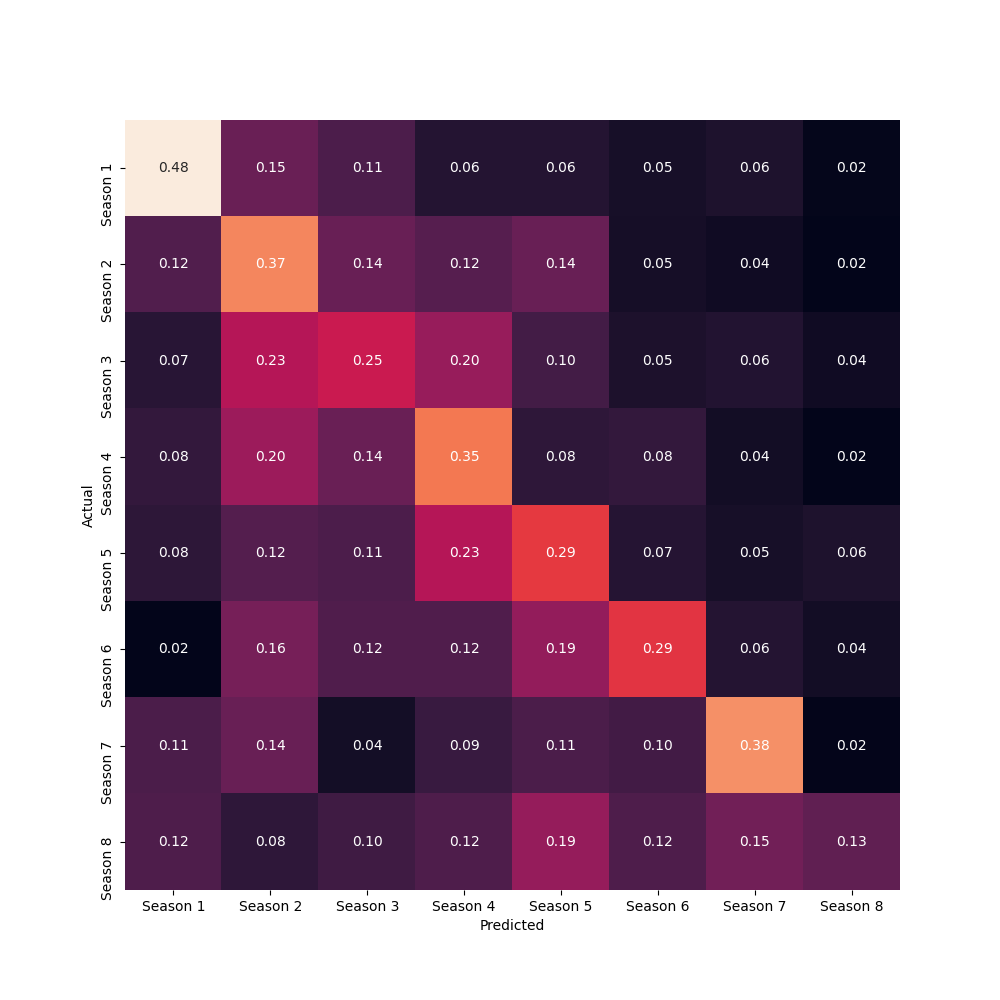
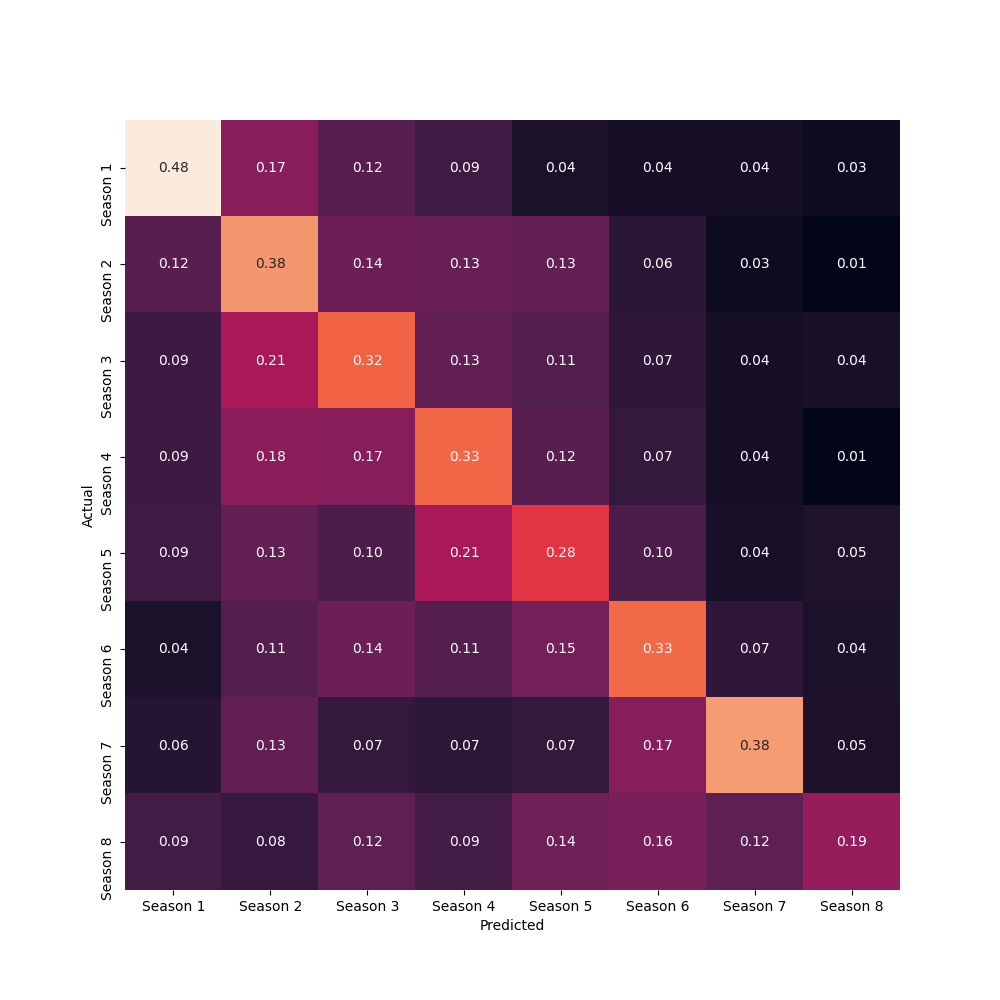
remove trainable

diff --git a/src/2_cnn_classifier.py b/src/2_cnn_classifier.py
@@ -4,17 +4,13 @@
 CNN classification of preprocessed GoT data, which has sentences chunked into 10 sentences, 
 using pretrained GloVe embeddings, which can be used as pretrained, or be re-trained on the data
 
-Required input:
-  - -o, --output_name: str, name of output directory to save all model outputs in
-
 Optional input:
   - -i, --input_file: str, default: "../out/0_preprocessing/GoT_preprocessed_10.csv", input csv with "season" and "text"
   - -e, --epochs: int, default: 20, number of epochs to train the model
   - -b, --batch_size: int, default: 20, size of batches to train model on 
   - -ed, --embedding_dim: int, default: 100, embedding dimension, either 50,100,200,300
-  - -et, --embedding_trainable, default: False, just use -et to make it True, whether pretrained embedding should be re-trained
 
-Output saved in out/2_cnn_classifier/{output_name}:
+Output saved in out/2_cnn_classifier/:
 - cnn_summary.txt: model summary of cnn model
 - cnn_model.png: visualisation of the model architecture
 - cnn_history.png: history plot of the cnn model
@@ -28,6 +24,9 @@ Output saved in out/2_cnn_classifier/{output_name}:
 import os
 import argparse
 import pandas as pd
+import numpy as np
+import seaborn as sns
+import matplotlib.pyplot as plt
 
 # Utils
 import sys
@@ -36,9 +35,8 @@ from utils.clf_utils import (get_train_test, binarize_labels, create_embedding_m
                              tokenize_texts, pad_texts, int_to_labels, classification_matrix,
                              save_model_info, save_model_history, save_model_report, save_model_matrix)
 
-import numpy as np
-import seaborn as sns
-import matplotlib.pyplot as plt
+
+# ML tools
 from sklearn.preprocessing import LabelBinarizer
 from sklearn.metrics import classification_report
 
@@ -60,13 +58,6 @@ def main():
     # Initialise argument parser
     ap = argparse.ArgumentParser()
     
-    
-    # Required inputs
-    # Input option for output directory name
-    ap.add_argument("-o", "--out_name", type=str, help="Number of output directoy, will be created in out/",
-                    required=True)
-    
-    # Optional inputs
     # Input option for number of epochs
     ap.add_argument("-i", "--input_file", type=str, help="Path to input data file, csv with columns 'season' and 'text'", 
                     required=False, default="../out/0_preprocessing/GoT_preprocessed_10.csv")
@@ -82,10 +73,6 @@ def main():
     # Input option for embedding dimensions
     ap.add_argument("-ed", "--embedding_dim", type=int, help="Size of embedding dimension",
                      required=False, default=100)
-    
-    # Input option for whether embedding weights should be trainable
-    ap.add_argument("-et", "--embedding_trainable", action='store_true', help="Should embedding be trainable",
-                    required=False, default=False)
 
     # Retrieve input arguments
     args = vars(ap.parse_args())
@@ -93,8 +80,6 @@ def main():
     epochs = args["epochs"]
     batch_size = args["batch_size"]
     embedding_dim = args["embedding_dim"]
-    embeddings_trainable = args["embeddings_trainable"]
-    out_name = args["out_name"]
     
     # --- PREPARE DATA ---
     
@@ -128,7 +113,7 @@ def main():
     
     # Add embedding layer
     model.add(Embedding(vocab_size, embedding_dim, weights=[embedding_matrix], 
-                        input_length=max_len, trainable=embeddings_trainable))
+                        input_length=max_len, trainable=True))
     
     # Add convolutional layer
     model.add(Conv1D(128, 5, activation='relu', kernel_regularizer=L2(0.001)))
@@ -160,8 +145,9 @@ def main():
                                    predictions.argmax(axis=1),
                                    target_names = label_names)
                               
-    # Get classification matrix
-    labels_true, labels_pred = int_to_labels(y_test_binary, predictions, label_names)     
+    # Turn binarised labels into true labels
+    labels_true, labels_pred = int_to_labels(y_test_binary, predictions, label_names)  
+    # Get classifiction matrix
     matrix = classification_matrix(labels_true, labels_pred)
     
     # --- OUTPUT ---
@@ -171,7 +157,7 @@ def main():
     print(report)
     
     # Prepare output directory
-    out_directory = os.path.join("..", "out", "2_cnn_classifier", out_name)
+    out_directory = os.path.join("..", "out", "2_cnn_classifier")
     if not os.path.exists(out_directory):
         os.makedirs(out_directory)
     

diff --git a/src/1_lr_classifier.py b/src/1_lr_classifier.py
@@ -77,7 +77,7 @@ def main():
     y = df["season"].values
     
     # Split into test and train data
-    X_train, X_test, y_train, y_test = train_test_split(X, y, test_size=0.20, random_state=42)
+    X_train, X_test, y_train, y_test = train_test_split(X, y, test_size=0.25, random_state=42)
     
     # Extract count features 
     vectorizer = CountVectorizer()

diff --git a/utils/clf_utils.py b/utils/clf_utils.py
@@ -317,4 +317,5 @@ def save_model_matrix(matrix, output_directory, filename):
     out_matrix = unique_path(os.path.join(output_directory, filename))
     matrix.savefig(out_matrix)
     
-    
+if __name__=="__main__":
+    pass  

diff --git a/README.md b/README.md
@@ -2,42 +2,24 @@
 
 [Description](#description) | [Methods](#methods) | [Repository Structure](#repository-structure) | [Usage](#usage) | [Results and Disucssion](#results-and-discussion) | [Contact](#contact)
 
-
 ## Description
 > This is related to Assignment 6: Text Classification using Deep Learning of the course Language Analytics. 
 
-The meaning of text is not only defined by occurance of individual words (which could be captured through e.g. count-vectorization or tfidf-vectorization), and sparse one-hot encoded vectors, but also through the actual meaning of words and the context that those individual words occur in. 
-
-**Word embeddings** are dense feature representations of words, where semantically similar words have similar representations. These word embeddings are learned from a corpus of text documents, based on around which other words they occur. Thus, if two words occur always together with other words, they will have similar representations. Rather than training these representations from scratch, pre-trained word embeddings can be used, which have been extracted from a large corpus of text. In this project, GloVe embeddings are used, which were trained using Wikipedia 2014 + Gigaword 5 (more info [here](https://nlp.stanford.edu/projects/glove/)). 
-
-**Convolutional Neural Networks** have the advantage over e.g. traditional machine learning models, that they can not only take into account global features across a text, but also local features, i.e. smaller contexts. As a first layer, CNNs can take an embedding layer. If no pre-trained embeddings are used, this layer will learn to word embeddings using the input data. However, if pre-trained embeddings are used, the words of the text can be transformed into these pre-trained embeddings and fed into the model. Additionally, one can also update or re-train the pretrained embeddings based on the text inut. 
-
-This project aimed to investigate whether lines of Games of Thrones can be classified by the season they belong to. Thus, this repository contains two scripts, (1) to train and evaluate a base line model, using count-vectorisation and a logistic regression classifier and (2) to train and evalute a CNN, using pre-trained GloVe embeddings. 
-
+This project aimed to investigate whether lines of Games of Thrones can be classified by the season they belong to. For this classification task two models were trained and evaluated: (1) a baseline model using count-vectorisation and a logistic regression classifier and (2) a deep learning model using pre-trained GloVe word embeddings and a convolutional neural network classifier. While features extracted using count-vectorisation can inform about the words that occur in a given text, they cannot capture anything about the actual meaning of those words and the context that they appear in. Word embeddings are dense feature representations of words, which are learned based on which other words occur around a given word. For instance, if the words house and apartment always occur around words such as live and leave, these words will have similar representations. Consequently, words which are semantically similar will have similar representations. Rather than training these representations from scratch, pre-trained word embeddings, which have been learned using a large corpus of text can be used. These word embeddings can be fed into convolutional neural networks (CNN), which are able to take into account local features, i.e. smaller contexts of text.  
 
 ## Methods 
 
 ### Data and Preprocessing 
-The data, which was used for this project contains lines of Games of Thrones and information about the season they belong to. The data was extracted from [Kaggle](https://www.kaggle.com/albenft/game-of-thrones-script-all-seasons) and preprocessed with the following steps, aiming to create more balanced text document, e.g. of similar length:
-1. Remove rows in which the `Sentence` was not a sentence, but `SEASON` or `EPISODE` or `CREDITS` 
-2. The `Sentence` column still contained multiple sentences, i.e. when one of the characters was talking for a longer time. All sentences were split into single sentences. 
-3. The single sentences were chuncked in chunks of 10 sentences and stored together with the season information in a dataframe with columns `season` and `text`
+For this project, data from [Kaggle](https://www.kaggle.com/albenft/game-of-thrones-script-all-seasons), containing lines of Games of Thrones and the season they belong to. As the lines varied in their length, the following steps were taken with the aim of cleaning the data and creating more balanced text documents: 
+1. Rows in which the text was not a true line, but contained the word SEASON,  EPISODE or CREDITS were removed. 
+2. The lines in the data frame still consisted of multiple sentences. Thus, all lines were split into single sentences, while keeping the information about the season. 
+4. The single sentences were chunked into chunks of 10 sentences and stored together with their season in a data frame with columns for season and text.
 
 ### Count Vectorisazion and Logistic Regression
-As a baseline model, features were extracted from each of the texts using count vectorisation. This means, that that words in the texts are stored in a dictionary, and each text is then represented as how often each word of the dictionary occurs in the text. The logistic regression classifier used these extracted feature spaces to classify the text. For this project it was run with L2 regularisation, and a max of 1000 iterations. 
+For the baseline model, the preprocessed data was first split into training and test data using an 75/25 split. Subsequently, features were extracted from the data using count vectorisation. This means, words in the texts are stored in a dictionary, and each text is represented by how often each word of the dictionary occurs in the text. These feature representations were fed into a logistic regression classifier, which was run using default parameters. The model was evaluated based on predictions on the test data. 
 
 ### Image Embeddings and Convolutional Neural Networks
-The CNN had the following layer structure: 
-
-- Embedding Layer: embedding matrix of GloVe embeddings, using embedding dimension of 100
-- Convolutional layer with 128 nodes, relu activation and L2 regularisation of 0.001
-- Global max-pooling layer 
-- Drop out ayer of 0.02
-- Fully connected layer with 32 nodes, relu activation and L2 regularisation of 0.001
-- Drop out layer of 0.02
-- Output, classification layer
-
-The drop out layers and regularisation methods were used, to reduce overfitting of the model on the training data. For more details see also the [model visualisation](https://github.com/nicole-dwenger/cdslanguage-cnn/blob/master/out/2_cnn_classifier/pretrained_100_e20/cnn_model.png) and [model summary](https://github.com/nicole-dwenger/cdslanguage-cnn/blob/master/out/2_cnn_classifier/pretrained_100_e20/cnn_summary.txt). The model was once trained using the pre-trained word embeddings, and once allowing the pre-trained word embeddings to be updated with the input data (i.e. trainble). In both cases, the model was trained for 20 epochs using a batch size of 20. 
+For the deep learning model, the preprocessed data was also split into training and test data using an 75/25 split. First, the labels were binarised to be fed into the CNN. Afterwards, the texts were tokenised, meaning they were turned into a vectors. To be fed into the CNN, it is required that all vectors have the same length. Thus, the vectors were padded to be as long as the maximum vector. These vectors were then used to create an embedding matrix, based on the pre-trained GloVe embeddings of dimension 100. This embedding matrix the input of the first layer, the embedding layer of the CNN. Even though the pre-trained GloVe embedding were used, they were allowed to be re-trained  based on the input data (set to trainable). Following this embedding layer was a convolutional layer (128 nodes, with relu-activation function, L2 regularisation of 0.001), a global max-pooling layer, a drop out layer (0.02), a fully connected layer (32 nodes, with relu-activation function, L2 regularisation of 0.001), another drop-out layer (0.02) and finally a layer to classify the line to be one of the eight seasons. The drop-out layers and regularisation method were used to reduce overfitting of the model on the training data. For more details see the [model visualisation](https://github.com/nicole-dwenger/cdslanguage-cnn/blob/master/out/2_cnn_classifier/pretrained_100_e20/cnn_model.png) and [model summary](https://github.com/nicole-dwenger/cdslanguage-cnn/blob/master/out/2_cnn_classifier/pretrained_100_e20/cnn_summary.txt). The model was trained for 20 epochs using a batch size of 20.
 
 ## Repository Structure 
 ```
@@ -49,17 +31,14 @@ The drop out layers and regularisation methods were used, to reduce overfitting 
     |-- 0_preprocessing/                # Directory for output of script 0_preprocessing.py
         |-- GoT_preprocessed_10.csv     # Preprocessed data, with chunks of 10 sentences
     |-- 1_lr_classifier/                # Directory for output of script 1_lr_classifier.py
-        |-- lr_metrics.txt              
-        |-- lr_matrix.png               
+        |-- lr_metrics.txt              # Classification report of logistic regression classifier
+        |-- lr_matrix.png               # Classification matrix of logistic regression classifier
     |-- 2_cnn_classifier/               # Directory for output of script 2_cnn_classifier.py
-        |-- pretrained_100_e20/         # Directory for output of CNN with pretrained embeddings of size 100
-            |-- cnn_summary.txt
-            |-- cnn_model.png
-            |-- cnn_history.png
-            |-- cnn_metrics.txt
-            |-- cnn_matrix.png
-        |-- trained_100_e20/            # Directory for output of CNN with re-trained embedddings of 100
-            |-- ...
+        |-- cnn_summary.txt             # Summary of CNN architecture
+        |-- cnn_model.png               # Visualisation of CNN architecture
+        |-- cnn_history.png             # Visualisation of CNN training history
+        |-- cnn_metrics.txt             # Classification report of CNN
+        |-- cnn_matrix.png              # Classification matrix of CNN
 
 |-- src/                                # Directory containing main scripts of the project
     |-- 0_preprocessing.py              # Script for preprocessing raw data
@@ -94,7 +73,7 @@ source venv_cnn/bin/activate
 ```
 
 ### 2. Data and Pretrained Embeddings
-The Games of Thrones Data, which was downloaded from [Kaggle](https://www.kaggle.com/albenft/game-of-thrones-script-all-seasons) is already in the repository, in the `data/` directory. However, to run the CNN, it is necessary to download the pretrained GloVe word embeddings. This should be done in the `data/glove/` directory (which is already prepared, but empty). After following the steps below, you should have 4 .txt files in the glove directory: 
+The Games of Thrones Data, which was downloaded from [Kaggle](https://www.kaggle.com/albenft/game-of-thrones-script-all-seasons) is already in the repository, in the `data/` directory. However, to run the CNN, it is necessary to download the pretrained GloVe word embeddings. This should be done in the `data/glove/` directory (which is already prepared, but empty). After following the steps below, you should have four .txt files in the glove directory: 
 
 ```bash
 # move into glove directory
@@ -157,10 +136,10 @@ __Parameters:__
 __Output__ saved in `out/1_lr_classifier/`: 
 
 - `lr_metrics.txt`\
-   Classification report of logistic regression classifier. Filename is enumerated if it exists already, to avoid overwriting.
+   Classification report of logistic regression classifier. Filename is enumerated if it exists already.
 
 - `lr_matrix.png`\
-   Classification/confusion matrix of logistic regression classifier. Filename is enumerated if it exists already, to avoid overwriting.
+   Classification/confusion matrix of logistic regression classifier. Filename is enumerated if it exists already.
    
    
 ### 3.2. CNN Classifier: 2_cnn_classifier.py
@@ -174,12 +153,9 @@ cd src/
 python3 2_cnn_classifier.py
 
 # run script with specified parameters
-python3 2_cnn_classifier.p -o cnn_1
+python3 2_cnn_classifier.p -e 10
 ```
 __Parameters:__
-
-- `-o, --output_name`: *str,* **required**\
-   Name of directory, in which all outputs of the model will be stored. The directory will be created in `out/` when running the script. 
 
 - `-i, --input_file`: *str, optional, default:* `../out/0_preprocessing/GoT_preprocessed_10.csv`\
    Input file, should be data, which was preprocessed with `0_preprocessing.py`, with columns of `season` and `text`. 
@@ -192,44 +168,37 @@ __Parameters:__
   
 - `-ed, --embedding_dim`: *int, default:* `100`\
   Embedding dimension, either `50`, `100`, `200` or `300`. 
-  
-- `-et, --embedding_trainable`: *bool, default:* `False`\
-   To make embedding weights trainable, add `--embedding_trainable` (without any further parameters) when running the script. 
     
-__Output__ saved in `out/2_cnn_classifier/{output_name}`: 
+__Output__ saved in `out/2_cnn_classifier/`: 
 
 - `cnn_summary.txt`\
-   Model summary, i.e. information about layer architecture. 
+   Model summary, i.e. information about layer architecture. Filename is enumerated if it exists already.
    
 - `cnn_model.png`\
-   Visualisation of model architecture. 
+   Visualisation of model architecture. Filename is enumerated if it exists already.
    
 - `cnn_history.png`\
-   Visualisation of model training history. 
+   Visualisation of model training history. Filename is enumerated if it exists already.
 
 - `cnn_metrics.txt`\
-   Classification report of CNN. 
+   Classification report of CNN. Filename is enumerated if it exists already.
 
 - `cnn_matrix.png`\
-   Classification/confusion matrix of CNN. 
+   Classification/confusion matrix of CNN. Filename is enumerated if it exists already.
 
 
 ## Results and Discussion 
-All results can be found in the `out/` directory of this repository. The [classification report](https://github.com/nicole-dwenger/cdslanguage-cnn/blob/master/out/1_lr_classifier/lr_metrics.txt) of the logistic regression classifier indicates, that the model achieved a weighted F1 score of 0.33. Classification reports ([pretrained embeddings](https://github.com/nicole-dwenger/cdslanguage-cnn/blob/master/out/2_cnn_classifier/pretrained_100_e20/cnn_metrics.txt), [retrained embeddings](https://github.com/nicole-dwenger/cdslanguage-cnn/blob/master/out/2_cnn_classifier/trained_100_e20/cnn_metrics.txt)) of the CNNs indicate, that the model using pre-trained embeddings, achieved a weighted F1 score of 0.33, while the model in which embedding weights were re-trained achieved a weighted F1 score of 0.34. Thus, only considering the F1 score, the CNN could not really outperform the base line, logistic regression classifier. 
+All results can be found in the `out/` directory of this repository. The [classification report](https://github.com/nicole-dwenger/cdslanguage-cnn/blob/master/out/1_lr_classifier/lr_metrics.txt) of the logistic regression classifier indicated, that the model achieved a weighted F1 score of 0.35. The [classification report](https://github.com/nicole-dwenger/cdslanguage-cnn/blob/master/out/2_cnn_classifier/trained_100_e20/cnn_metrics.txt) of the CNN indicated a weighted F1 score of 0.31. Thus, only considering the F1 score, the CNN could not really outperform the base line, logistic regression classifier. 
 
-The model histories of the CNNs indicate, that despite regularisation and drop-out layers the model started overfitting at around epoch 10. This is indicated by the fact that the validation loss is diverging, meaning it increases, while the training loss continues to decrease. 
-
-Pretrained Embeddings             | Retrained Embeddings
-:-------------------------:|:-------------------------:
-![](https://github.com/nicole-dwenger/cdslanguage-cnn/blob/master/out/2_cnn_classifier/pretrained_100_e20/cnn_history.png)  |  ![](https://github.com/nicole-dwenger/cdslanguage-cnn/blob/master/out/2_cnn_classifier/trained_100_e20/cnn_history.png)
-
-
-The confusion matricies can be provide more detailed information into which seasons where mixed up or more difficult to classifiy. Both the logistic regression classifier and the CNNs performed best at classifying season 1, season 2 and season 7. However, there may be other reasons, e.g. disbalanced data for these results. 
+The confusion matricies can be provide more detailed information into which seasons where mixed up or more difficult to classifiy. Both the logistic regression classifier and the CNN performed best at classifying season 1, season 2 and season 7. However, there may be other reasons, e.g. disbalanced data for these results. 
 
 Logistic Regression             | Retrained Embeddings
 :-------------------------:|:-------------------------:
 ![](https://github.com/nicole-dwenger/cdslanguage-cnn/blob/master/out/1_lr_classifier/lr_matrix.png)  |  ![](https://github.com/nicole-dwenger/cdslanguage-cnn/blob/master/out/2_cnn_classifier/trained_100_e20/cnn_matrix.png)
 
+Looking closer at the training history of CNN, it can be seen that despite regularisation and drop-out layers the model started overfitting at around epoch 10. This is indicated by the fact that the validation loss is diverging, meaning it increases, while the training loss continues to decrease. 
+
+![](https://github.com/nicole-dwenger/cdslanguage-cnn/blob/master/out/2_cnn_classifier/trained_100_e20/cnn_matrix.png)
 
 Overall, it seems like this data may have been too complex to classify using word embeddings. Other approaches, e.g. using NER may be more useful to classify seasons, as they may be a simpler indicator of which season lines belong to. 
 
